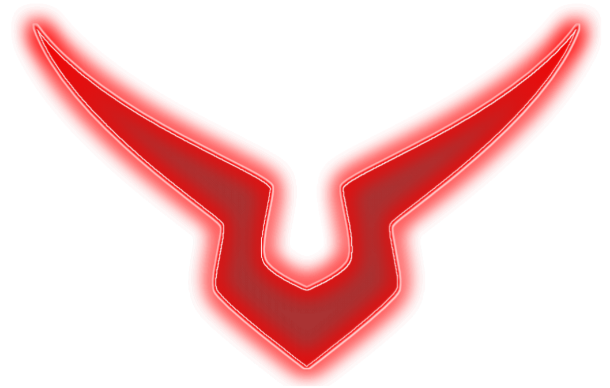
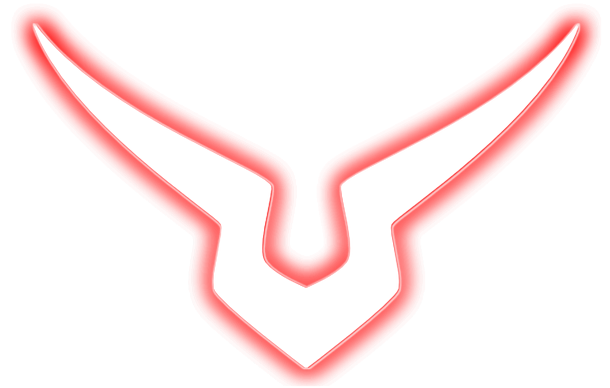
Keep the glow behind the sigil
- Cut the sigil's shape out of the glow image, so it only ever shows as a halo around the sigil, including while the sigil fades in on refresh
- Load the glow below the sigil in both layouts
- Keep the original glow image in @Resources\Source\glow-full.png

Changed region(s): [[0.0311, 0.0619, 0.9656, 0.9588]]

diff --git a/README.md b/README.md
@@ -70,7 +70,7 @@ GurenHoneycomb
 │   ├── Images
 │   │   ├── Icons           one .png per icon
 │   │   └── Wallpapers      hover wallpaper images
-│   └── Source              .psd and .xcf files for making new icons
+│   └── Source              .psd and .xcf files for making new icons, and the uncut glow
 ├── Geass                   the sigil
 ├── Glow                    the glow behind the sigil when you hover it
 ├── Icons                   one folder per icon
